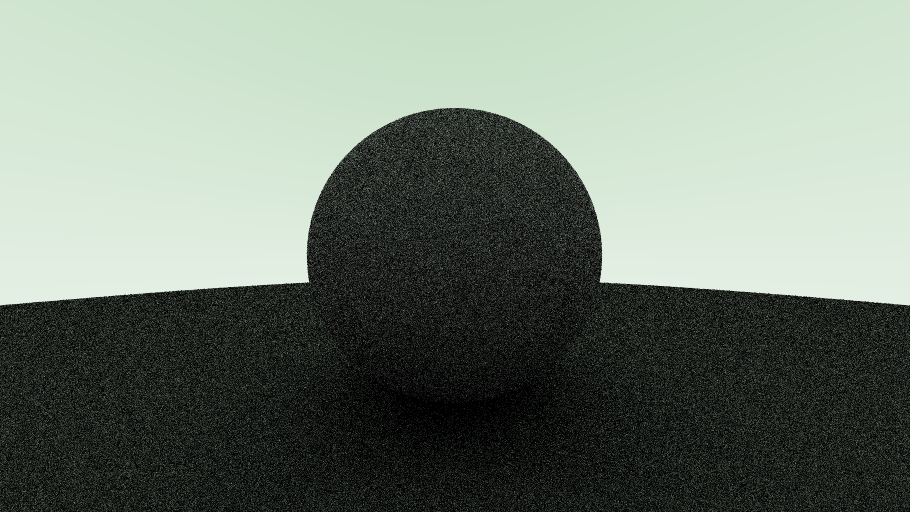
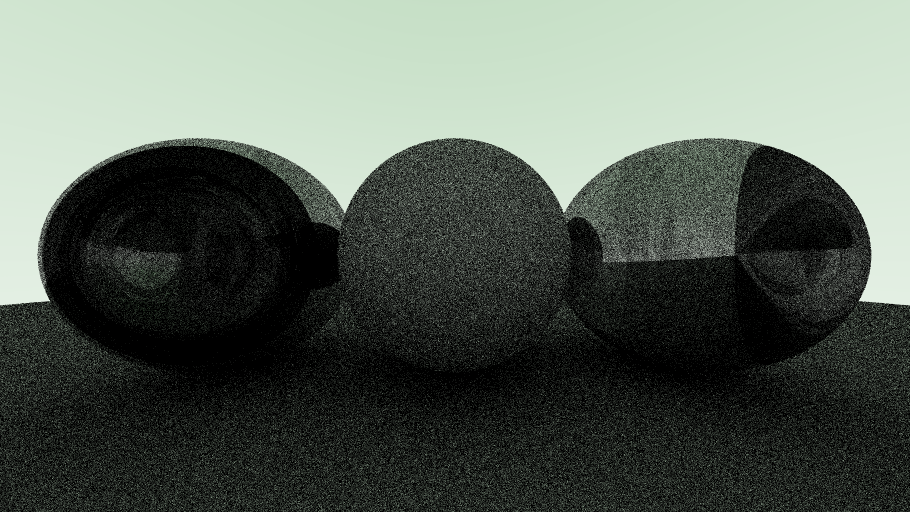
Remake inheritance crap

diff --git a/src/engine/scene.rs b/src/engine/scene.rs
@@ -1,8 +1,13 @@
 use std::vec;
 use crate::engine::mesh::Mesh;
 use crate::engine::math::vector3::{*};
+use crate::engine::material::{*};
+use crate::engine::material::diffuse::{*};
+use crate::engine::material::metal::{*};
 
 use super::geometry::sphere::Sphere;
+
+use std::rc::{*};
 
 pub struct Scene {
     pub meshes: Vec<Mesh>,
@@ -10,14 +15,26 @@ pub struct Scene {
 
 impl Scene {
     pub fn new() -> Self {
-        Self{meshes : Vec::new()}
+        Self { 
+            meshes : Vec::new(),
+        }
     }
 
     pub fn load_debug(&mut self) {
-        let mut mesh : Mesh = Mesh::new();
-        mesh.add_sphere(Sphere{radius : 0.5, position : Vector3::new(0.0, 0.0, 1.0)});
-        mesh.add_sphere(Sphere{radius : 100.0, position : Vector3::new(0.0, -100.5, 1.0)});
+        let diffuse_material_data = DiffuseMaterial{};
+        let diffuse_material = Material{scatter : Rc::new(diffuse_material_data)};
 
+        let mut mesh : Mesh = Mesh::new(Rc::new(diffuse_material));
+        mesh.add_sphere(Sphere{radius : 0.5, position : Vector3::new(0.0, 0.0, 1.2)});
+        mesh.add_sphere(Sphere{radius : 100.0, position : Vector3::new(0.0, -100.5, 1.0)});
+        self.meshes.push(mesh);
+
+        let metal_material_data = MetalMaterial{metalness : 0.3};
+        let metal_material = Material{scatter : Rc::new(metal_material_data)};
+        
+        let mut mesh : Mesh = Mesh::new(Rc::new(metal_material));
+        mesh.add_sphere(Sphere{radius : 0.5, position : Vector3::new(1.0, 0.0, 1.2)});
+        mesh.add_sphere(Sphere{radius : 0.5, position : Vector3::new(-1.0, 0.0, 1.2)});
         self.meshes.push(mesh);
     }
 }

diff --git a/src/engine/renderer.rs b/src/engine/renderer.rs
@@ -4,12 +4,11 @@ use crate::engine::math::ray::{*};
 use crate::engine::math::vector3::{*};
 use crate::engine::scene::{*};
 use crate::engine::geometry::traceable::HitResult;
-use crate::engine::material::brdf::{*};
 use image::{Rgb};
 use rand::Rng;
 
 use super::material::Material;
-use super::material::diffuse::DiffuseMaterial;
+use super::material::diffuse::{*};
 
 use std::rc::{*};
 
@@ -40,10 +39,10 @@ impl Renderer {
         }
 
         if depth > 1 {
-            let brdf_vector = unsafe {(*min_hit_result.material.as_ptr()).brdf(ray, &min_hit_result)};
+            let brdf_vector = unsafe {(*min_hit_result.material.as_ptr()).scatter.scatter(ray, &min_hit_result)};
 
             let new_ray = Ray{origin : min_hit_result.position, direction : brdf_vector};
-            return Self::sample_scene(new_ray, scene, depth - 1) * 0.5;
+            return Self::sample_scene(new_ray, scene, depth - 1) * 0.8;
         }
 
        Vector3::new(0.0, 0.0, 0.0)

diff --git a/src/engine/material.rs b/src/engine/material.rs
@@ -1,27 +1,22 @@
-pub mod brdf;
 pub mod diffuse;
+pub mod metal;
 
 use crate::engine::math::ray::{*};
 use crate::engine::math::vector3::{*};
 use crate::engine::material::diffuse::{*};
+use crate::engine::material::metal::{*};
 use crate::engine::geometry::traceable::{*};
 
-pub enum MaterialType {
-    Diffuse
-}
+use std::rc::{*};
 
 pub struct Material {
-    material_type : MaterialType,
+    pub scatter : Rc<dyn Scatter>,
 }
 
 impl Material {
-    pub fn new(material_type : MaterialType) -> Self {
-        Self{material_type : material_type}
-    }
 
-    pub fn brdf(&self, ray: Ray, hit_result : &HitResult) -> Vector3 {
-        match self.material_type {
-            MaterialType::Diffuse => DiffuseMaterial::brdf(self, ray, hit_result),
-        }
-    }
+}
+
+pub trait Scatter {
+    fn scatter(&self, ray: Ray, hit_result : &HitResult) -> Vector3;
 }

diff --git a/src/engine/mesh.rs b/src/engine/mesh.rs
@@ -11,21 +11,15 @@ use crate::engine::geometry::triangle::{*};
 use std::rc::{*};
 
 pub struct Mesh {
-    pub material : Rc<Material>,
+    material : Rc<Material>,
+
     spheres : Vec<Sphere>,
     triangles : Vec<Triangle>,
 }
 
 impl Mesh {
-    pub fn new() -> Self {
-        Self{material : Rc::new(Material::new(MaterialType::Diffuse)), 
-            spheres : Vec::new(), triangles : Vec::new()}
-    }
-
-    pub fn set_material(&mut self, material_type : MaterialType) {
-        match material_type {
-            MaterialType::Diffuse =>  self.material = Rc::new(Material::new(MaterialType::Diffuse)),
-        }
+    pub fn new(material : Rc<Material>) -> Self {
+        Self{material : material, spheres : Vec::new(), triangles : Vec::new()}
     }
 
     pub fn add_sphere(&mut self, sphere : Sphere) {

diff --git a/src/engine/material/diffuse.rs b/src/engine/material/diffuse.rs
@@ -1,16 +1,15 @@
 use crate::engine::material::{*};
-use crate::engine::material::brdf::{*};
 
 use crate::engine::math::ray::{*};
 use crate::engine::math::vector3::{*};
 use crate::engine::geometry::traceable::{*};
 
-pub trait DiffuseMaterial {
-    fn brdf(&self, ray: Ray, hit_result : &HitResult) -> Vector3;
+pub struct DiffuseMaterial {
+    
 }
 
-impl DiffuseMaterial for Material {
-    fn brdf(&self, ray: Ray, hit_result : &HitResult) -> Vector3 {
+impl Scatter for DiffuseMaterial {
+    fn scatter(&self, ray: Ray, hit_result : &HitResult) -> Vector3 {
         let diffuse_position = hit_result.normal + Vector3::random_in_unit_sphere();
         diffuse_position.normalize()
     }

diff --git a/src/engine/material/metal.rs b/src/engine/material/metal.rs
@@ -1,0 +1,19 @@
+use crate::engine::material::*;
+
+use crate::engine::geometry::traceable::*;
+use crate::engine::math::ray::*;
+use crate::engine::math::vector3::*;
+
+pub struct MetalMaterial {
+    pub metalness: f64,
+}
+
+pub fn reflect(eye: Vector3, normal: Vector3) -> Vector3 {
+    eye - 2.0 * (normal.dot(eye)) * normal
+}
+
+impl Scatter for MetalMaterial {
+    fn scatter(&self, ray: Ray, hit_result: &HitResult) -> Vector3 {
+        reflect(ray.direction, hit_result.normal)
+    }
+}

diff --git a/src/main.rs b/src/main.rs
@@ -20,8 +20,8 @@ fn main() {
 
     scene.load_debug();
 
-    let render_context = RenderContext{render_target : render_target, scene : scene, spp : 100,
-        max_depth : 50};
+    let render_context = RenderContext{render_target : render_target, scene : scene, spp : 10,
+        max_depth : 5};
 
     let renderer = Renderer{};
 
